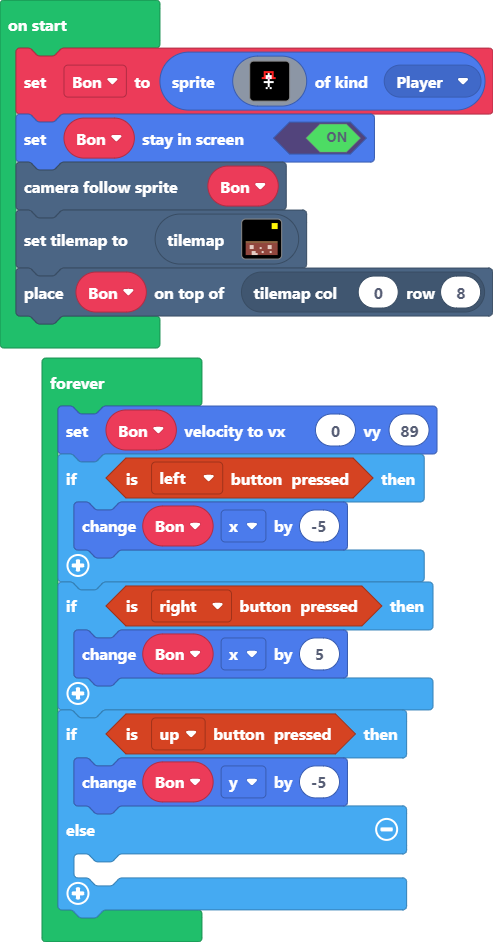
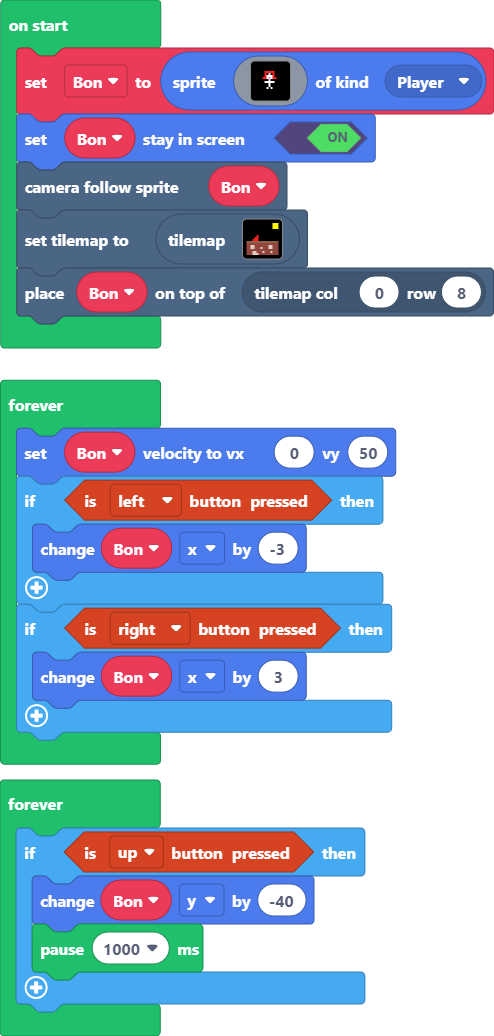
Update main.blocks, main.ts, tilemap.g.jres, tilemap.g.ts

diff --git a/tilemap.g.ts b/tilemap.g.ts
@@ -16,6 +16,10 @@ namespace myTiles {
     export const tile6 = image.ofBuffer(hex``);
     //% fixedInstance jres blockIdentity=images._tile
     export const tile7 = image.ofBuffer(hex``);
+    //% fixedInstance jres blockIdentity=images._tile
+    export const tile8 = image.ofBuffer(hex``);
+    //% fixedInstance jres blockIdentity=images._tile
+    export const tile9 = image.ofBuffer(hex``);
 
     helpers._registerFactory("tilemap", function(name: string) {
         switch(helpers.stringTrim(name)) {
@@ -115,24 +119,24 @@ namespace myTiles {
 . . . . . . . . . . . . . . . . 
 `, [myTiles.transparency16], TileScale.Sixteen);
             case "level102":
-            case "level2":return tiles.createTilemap(hex`1000100000000000000000000000000002010101000200000000000000000002020101010000000000000000000002000201010100000000000000000002000002020202000000000000000000000000000000000000000000000000000000000000000000000000000200000000000000000000000000000002000000000000000000000000000000000000000000000000000003030303030303030303030303030303040404040404040404040404040404040404050504040404040404050504040404040505040404050404040505040404040404040404040404040404040404040404040505040404050404040504040404040405050504040404040404040404`, img`
+            case "level2":return tiles.createTilemap(hex`1000100000000000000000000000000002010101000200000000000000000002020101010000000000000000000002000201010100000000000000000002000002020202000000000000000000000000000000000000000000000000000000000000000000000000000600000000000000000000000000000607000000000000000000000000000607070000000000000000000003030303030303030303030303030303040404040404040404040404040404040404050504040404040404050504040404040505040404050404040505040404040404040404040404040404040404040404040505040404050404040504040404040405050504040404040404040404`, img`
+. . . . . . . . . . . . . 2 2 2 
+. . . . . . . . . . . . . 2 2 2 
+. . . . . . . . . . . . . 2 2 2 
 . . . . . . . . . . . . . . . . 
 . . . . . . . . . . . . . . . . 
 . . . . . . . . . . . . . . . . 
-. . . . . . . . . . . . . . . . 
-. . . . . . . . . . . . . . . . 
-. . . . . . . . . . . . . . . . 
-. . . . . . . . . . . . . . . . 
-. . . . . . . . . . . . . . . . 
-. . . . . . . . . . . . . . . . 
+. . . . . 2 . . . . . . . . . . 
+. . . . 2 2 . . . . . . . . . . 
+. . . 2 2 2 . . . . . . . . . . 
 2 2 2 2 2 2 2 2 2 2 2 2 2 2 2 2 
 . . . . . . . 2 2 2 2 2 . . . . 
 . . . . . . . . . . . . . . . . 
+. . . . . . . . . . . 2 . . . . 
 . . . . . . . . . . . . . . . . 
 . . . . . . . . . . . . . . . . 
 . . . . . . . . . . . . . . . . 
-. . . . . . . . . . . . . . . . 
-`, [myTiles.transparency16,myTiles.tile1,myTiles.tile2,myTiles.tile4,myTiles.tile5,myTiles.tile6,myTiles.tile7], TileScale.Sixteen);
+`, [myTiles.transparency16,myTiles.tile1,myTiles.tile2,myTiles.tile4,myTiles.tile5,myTiles.tile6,myTiles.tile8,myTiles.tile9], TileScale.Sixteen);
         }
         return null;
     })
@@ -154,6 +158,10 @@ namespace myTiles {
             case "tile6":return tile6;
             case "myTile2":
             case "tile7":return tile7;
+            case "myTile3":
+            case "tile8":return tile8;
+            case "myTile4":
+            case "tile9":return tile9;
         }
         return null;
     })

diff --git a/main.ts b/main.ts
@@ -4,16 +4,17 @@ scene.cameraFollowSprite(Bon)
 tiles.setCurrentTilemap(tilemap`level102`)
 tiles.placeOnTile(Bon, tiles.getTileLocation(0, 8))
 forever(function () {
-    Bon.setVelocity(0, 89)
+    Bon.setVelocity(0, 50)
     if (controller.left.isPressed()) {
-        Bon.x += -5
+        Bon.x += -3
     }
     if (controller.right.isPressed()) {
-        Bon.x += 5
+        Bon.x += 3
     }
+})
+forever(function () {
     if (controller.up.isPressed()) {
-        Bon.y += -5
-    } else {
-    	
+        Bon.y += -40
+        pause(1000)
     }
 })
